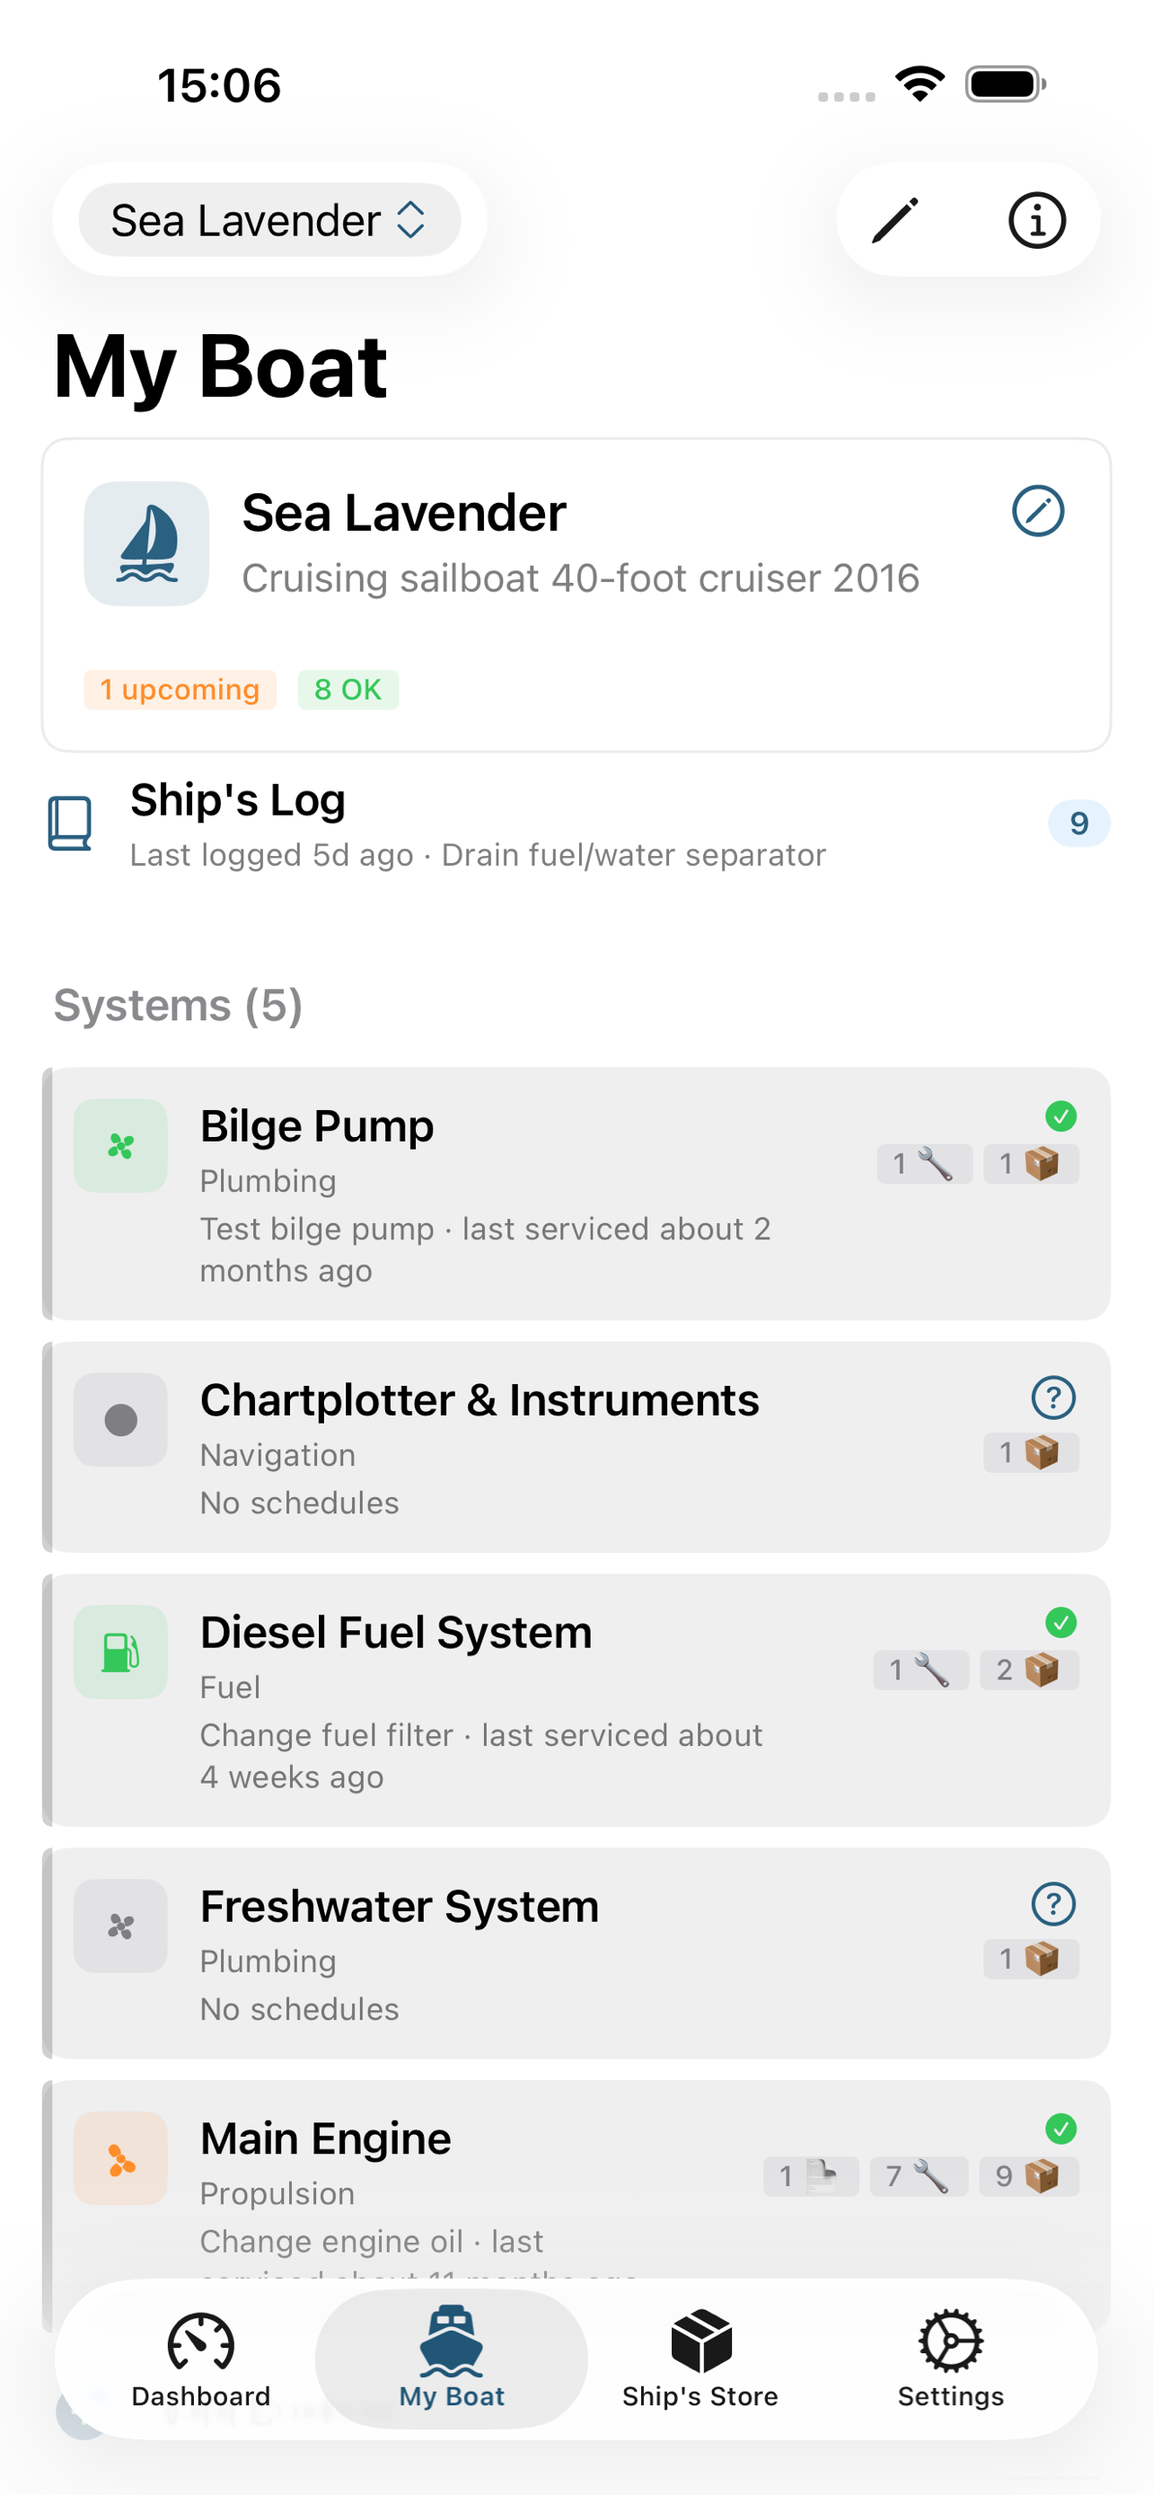
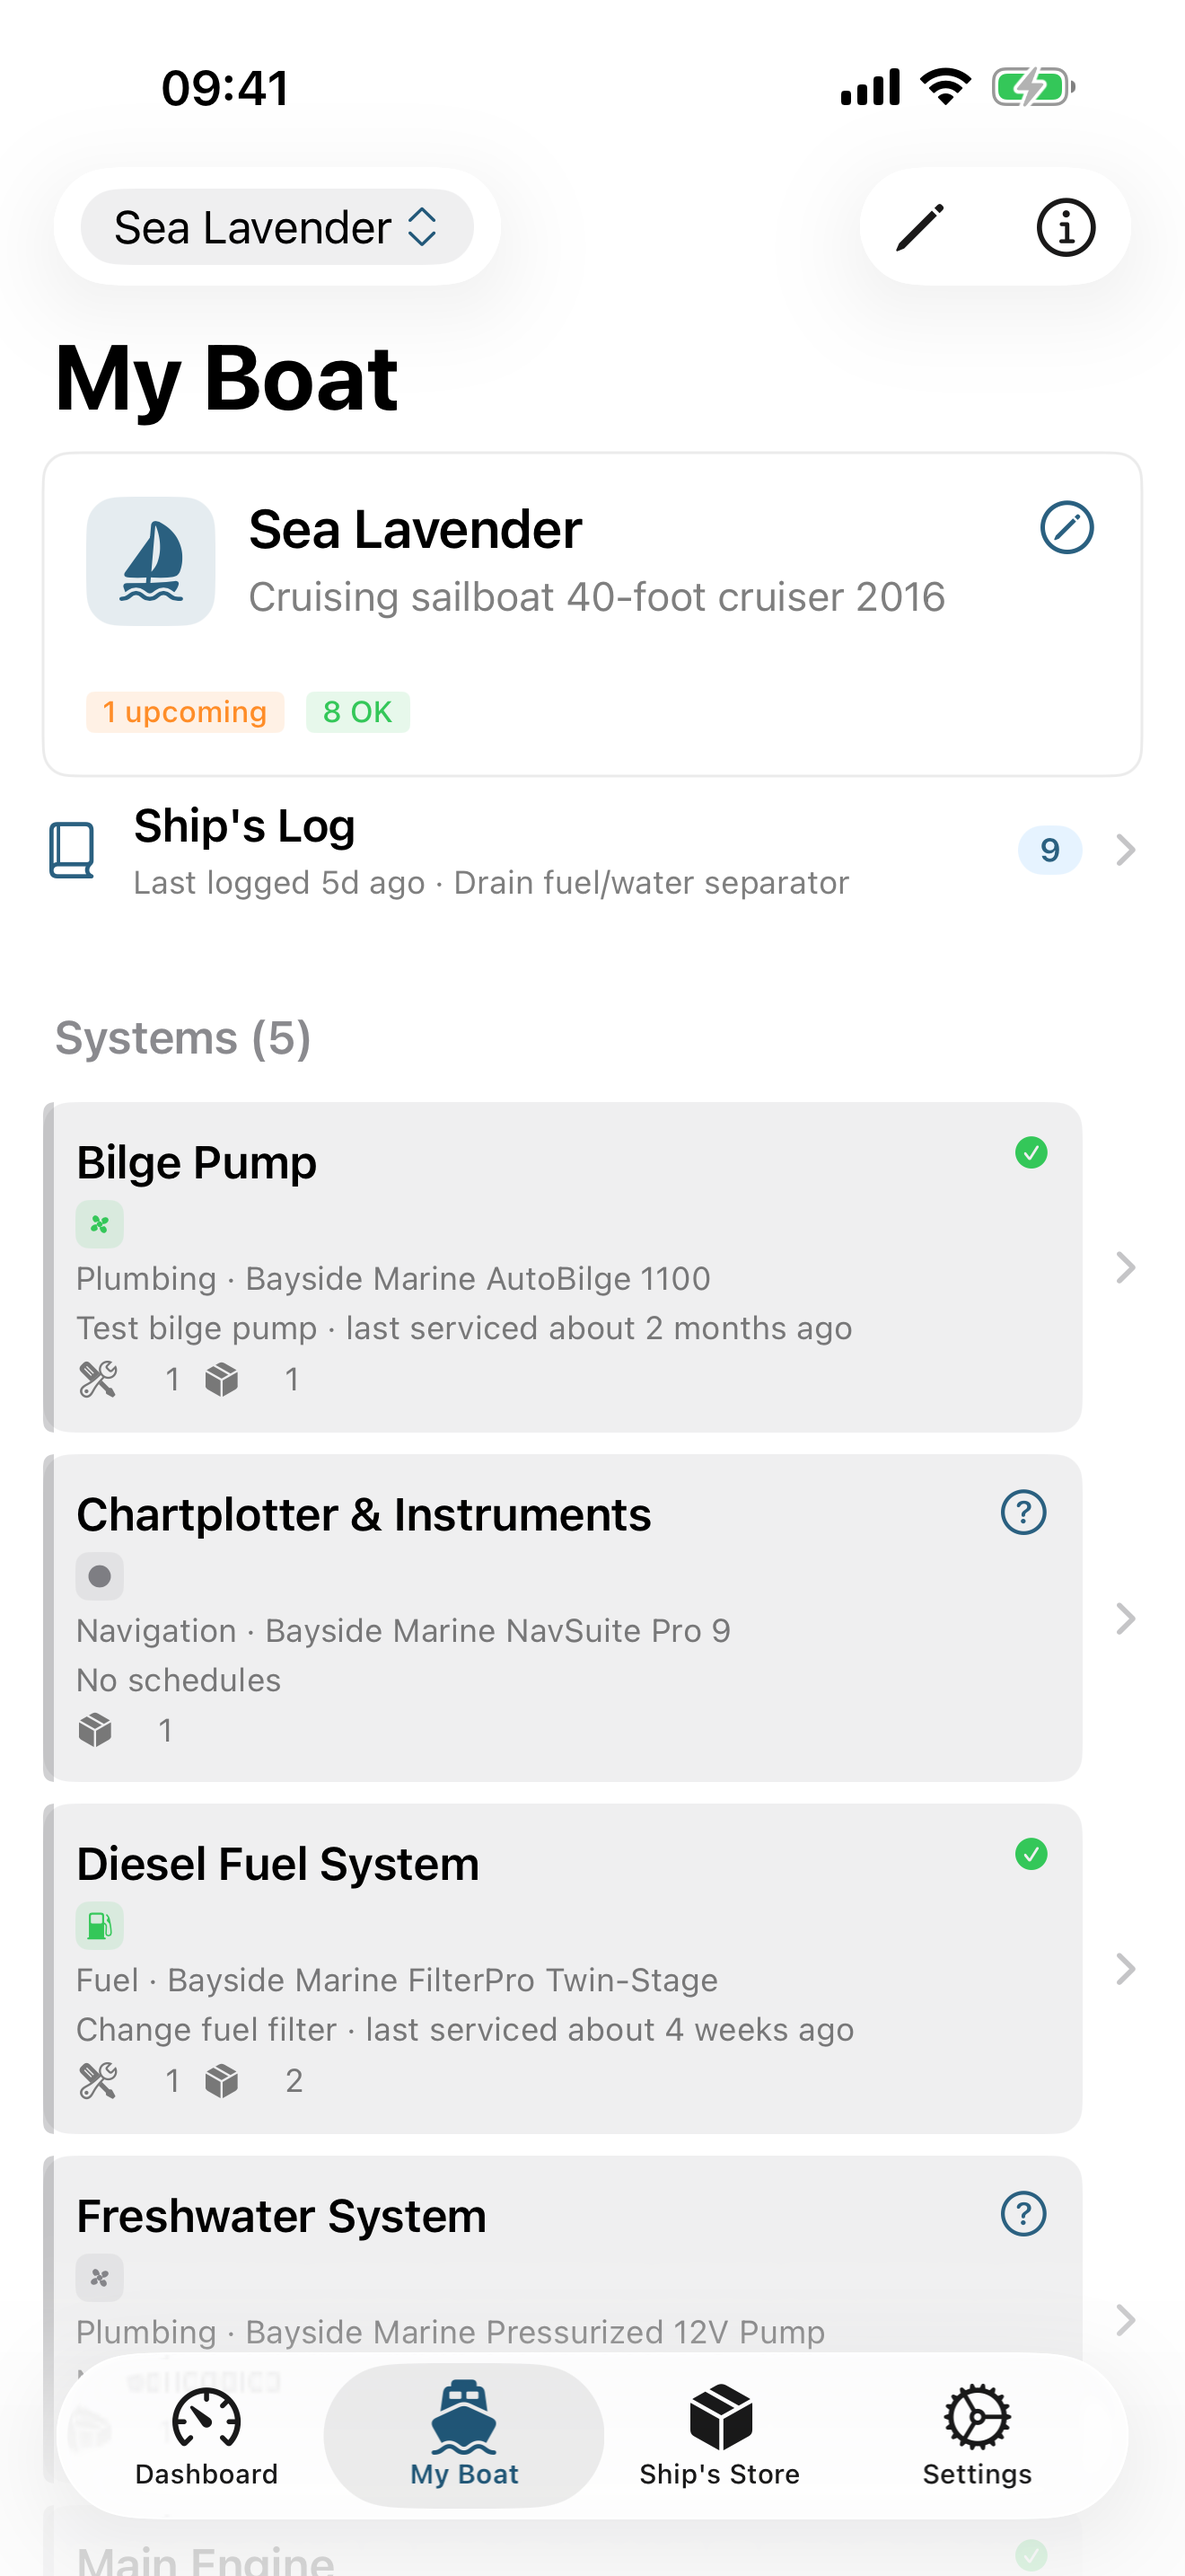
v1.1

diff --git a/index.html b/index.html
@@ -89,6 +89,13 @@
         </div>
         <div class="feature-card">
           <div class="feature-icon">
+            <svg viewBox="0 0 24 24"><path d="M12 22s8-4 8-10V5l-8-3-8 3v7c0 6 8 10 8 10z"/></svg>
+          </div>
+          <h3>Track safety gear.</h3>
+          <p>PFDs, flares, fire extinguishers, EPIRBs, and batteries get their own schedules and expiry reminders — driven by the printed date or an inspection interval. Safety items are interleaved with maintenance by due date on the dashboard, never buried in a separate list.</p>
+        </div>
+        <div class="feature-card">
+          <div class="feature-icon">
             <svg viewBox="0 0 24 24"><circle cx="12" cy="12" r="9"/><path d="M3 12h18M12 3a14 14 0 0 1 0 18M12 3a14 14 0 0 0 0 18"/></svg>
           </div>
           <h3>Local-first &amp; private.</h3>
